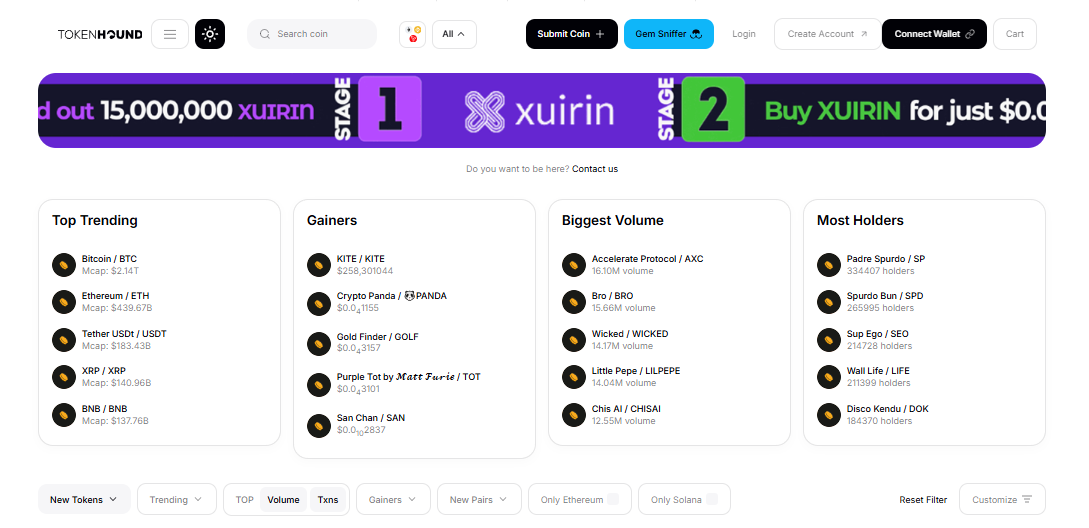
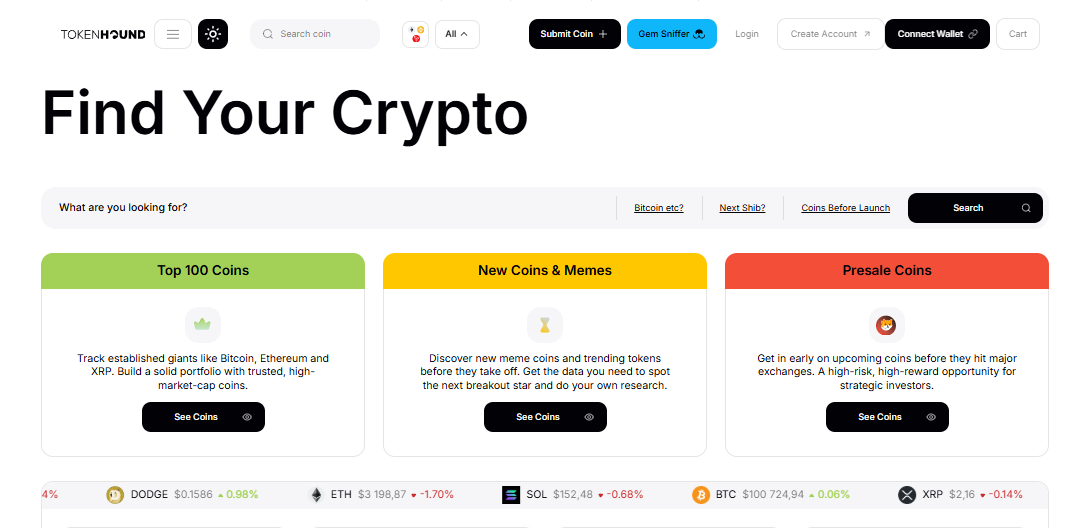
Supplemented description of cases

diff --git a/src/components/Cards/CaseShow.tsx b/src/components/Cards/CaseShow.tsx
@@ -2,8 +2,12 @@ import React, { useState } from 'react';
 import { MdExpandMore } from "react-icons/md";
 import { MdExpandLess } from "react-icons/md";
 
+export type Media =
+  | { type: 'video'; src: string }
+  | { type: 'image'; src: string };
+
 interface CaseShowProps {
-    video: string;
+    media: Media;               // <-- было: video: string
     cover?: string;
     title: string;
     description: string;
@@ -14,7 +18,7 @@ interface CaseShowProps {
 }
 
 const CaseShow: React.FC<CaseShowProps> = ({
-    video,
+    media,
     cover,
     title,
     description,
@@ -23,27 +27,25 @@ const CaseShow: React.FC<CaseShowProps> = ({
     extraClasses = "",
     expandedBgColor = "rgba(27, 33, 45, 1)",
 }) => {
-    const [isVideoLoaded, setIsVideoLoaded] = useState(false);
+    const [isMediaLoaded, setIsMediaLoaded] = useState(false);
     const [hasError, setHasError] = useState(false);
     const [isExpanded, setIsExpanded] = useState(false);
 
-    const handleVideoLoad = () => {
-        setIsVideoLoaded(true);
-    };
-
-    const handleVideoError = () => {
+    const handleMediaLoad = () => setIsMediaLoaded(true);
+    const handleMediaError = () => {
         setHasError(true);
-        setIsVideoLoaded(false);
+        setIsMediaLoaded(false);
     };
 
-    const showPreview = video && !isVideoLoaded && !hasError;
+    const showPreview = media.type === 'video' && !isMediaLoaded && !hasError;
 
     return (
         <article className="flex flex-col gap-3 lg:gap-4">
-            <div className="flex flex-col gap-3 lg:grid lg:grid-cols-2 lg:gap-x-4">
+            {/* <div className="flex flex-col gap-3 lg:grid lg:grid-cols-2 lg:gap-x-4"> */}
+            <div className="flex flex-col gap-3 lg:flex-row lg:gap-4">
                 {/* Блок с демо */}
                 <div
-                    className={`relative ${isEven ? 'lg:order-2' : 'lg:order-1'}`}
+                    className={`relative lg:w-1/2 ${isEven ? 'lg:order-2' : 'lg:order-1'}`}
                 >
                     <div className="h-60 border border-white/20 rounded-3xl sm:h-72 md:h-96 lg:h-[500px] overflow-hidden">
                         <img
@@ -61,13 +63,12 @@ const CaseShow: React.FC<CaseShowProps> = ({
                             filter: 'blur(170px)',
                             willChange: 'transform, opacity',
                         }}
-                    >
-                    </div>
+                    />
                 </div>
 
                 {/* Блок инфо */}
                 <div
-                    className={`grid grid-cols-5 gap-3 lg:flex lg:flex-col ${isEven ? 'lg:order-1' : 'lg:order-2'}`}
+                    className={`grid grid-cols-5 gap-3 lg:lg:w-1/2 lg:flex lg:flex-col lg:h-[500px] ${isEven ? 'lg:order-1' : 'lg:order-2'}`}
                 >
                     <div className={`relative col-span-3 rounded-3xl px-4 py-3 md:px-6 md:py-5 lg:h-1/2 overflow-hidden ${extraClasses}`}>
                         <div className="relative z-10">
@@ -77,49 +78,36 @@ const CaseShow: React.FC<CaseShowProps> = ({
                     </div>
 
                     <div className="relative col-span-2 border border-white/20 rounded-3xl h-36 lg:h-1/2 overflow-hidden">
-                        {showPreview && (
+                        {showPreview && cover && (
                             <img
                                 src={cover}
                                 alt={title}
                                 className="w-full h-full object-cover object-[center_3%]"
+                                onLoad={handleMediaLoad} // чтобы быстро убрать прелоад, если cover подгрузился
                             />
                         )}
 
-                        {video && (
+                        {media.type === 'video' ? (
                             <video
-                                src={video}
+                                src={media.src}
                                 autoPlay
                                 loop
                                 muted
                                 playsInline
-                                className={`w-full h-full object-cover object-[center_5%] ${isVideoLoaded ? 'block' : 'hidden'}`}
+                                className={`w-full h-full object-cover object-[center_5%] ${isMediaLoaded ? 'block' : 'hidden'}`}
                                 aria-label={title}
-                                onLoadedData={handleVideoLoad}
-                                onError={handleVideoError}
+                                onLoadedData={handleMediaLoad}
+                                onError={handleMediaError}
+                            />
+                        ) : (
+                            <img
+                                src={media.src}
+                                alt={title}
+                                className="w-full h-full object-cover object-[center_5%]"
+                                onLoad={handleMediaLoad}
+                                onError={handleMediaError}
                             />
                         )}
-
-                        {/* <div
-                            className={`absolute bottom-2 right-2 ${isEven ? 'lg:right-auto lg:left-2' : ''} flex items-center justify-center p-1 border border-white/40 text-white/60 rounded-full hover:border-white/50 hover:text-white/70 cursor-pointer transition-all duration-300`}
-                            onClick={() => setIsExpanded(!isExpanded)}
-                        >
-                            {isExpanded ? (
-                                <MdExpandLess className="size-6" />
-                            ) : (
-                                <MdExpandMore className="size-6" />
-                            )}
-                        </div> */}
-
-                        {/* <div
-                            className={`absolute bottom-2 right-2 ${isEven ? 'lg:right-auto lg:left-2' : ''} flex items-center justify-center p-1 bg-white text-pink-500 border border-pink-500 rounded-full hover:text-pink-800 hover:border-pink-800 cursor-pointer transition-all duration-300`}
-                            onClick={() => setIsExpanded(!isExpanded)}
-                        >
-                            {isExpanded ? (
-                                <MdExpandLess className="size-6" />
-                            ) : (
-                                <MdExpandMore className="size-6" />
-                            )}
-                        </div> */}
                     </div>
                 </div>
             </div>

diff --git a/src/details/TokenhoundDetails.tsx b/src/details/TokenhoundDetails.tsx
@@ -2,10 +2,11 @@ import React from 'react';
 import { RiReactjsLine } from 'react-icons/ri';
 import { TbBrandTypescript } from 'react-icons/tb';
 import { IoLogoCss3 } from 'react-icons/io';
-import { IoLogoGithub } from 'react-icons/io';
-import { RxFigmaLogo } from 'react-icons/rx';
+import { RiExchange2Fill } from "react-icons/ri";
 import { AiOutlineApi } from 'react-icons/ai';
 import { TbWebhook } from "react-icons/tb";
+import { IoLogoGithub } from 'react-icons/io';
+import { RxFigmaLogo } from 'react-icons/rx';
 
 const TokenhoundDetails = () => {
     return (
@@ -21,7 +22,10 @@ const TokenhoundDetails = () => {
                             <h5 className="mb-2 font-medium text-sm md:text-lg">Основные задачи:</h5>
                             <ul className="pl-4 list-disc flex flex-col gap-1 leading-5.5 text-xs sm:pl-3 md:text-base">
                                 <li>Реализация интерфейса по готовому дизайн-макету</li>
-                                <li>Интеграция с бэкендом через API</li>
+                                <li>Функционал смены темы оформления (dark / light)</li>
+                                <li>Клиент-серверное взаимодействие через REST API</li>
+                                <li>Динамическое отображение данных</li>
+                                <li>Совместная работа стандартной авторизации и авторизации криптокошелька</li>
                             </ul>
                         </div>
 
@@ -32,8 +36,9 @@ const TokenhoundDetails = () => {
                                     { icon: <RiReactjsLine />, text: 'Библиотека: React' },
                                     { icon: <TbBrandTypescript />, text: 'Язык программирования: TypeScript' },
                                     { icon: <IoLogoCss3 />, text: 'Стили: SCSS-модули' },
-                                    { icon: <AiOutlineApi />, text: 'Работа с данными: Fetch API' },
-                                    { icon: <TbWebhook />, text: 'Работа с состоянием: React Hooks' },
+                                    { icon: <AiOutlineApi />, text: 'Обмен данными: Axios' },
+                                    { icon: <RiExchange2Fill />, text: 'Глобальное состояние: MobX' },
+                                    { icon: <TbWebhook />, text: 'Состояние компонентов: React Hooks' },
                                     { icon: <IoLogoGithub />, text: 'Совместная разработка: GitHub' },
                                     { icon: <RxFigmaLogo />, text: 'Работа с дизайн-макетом: Figma' },
                                 ].map(({ icon, text }, index) => (
@@ -50,6 +55,42 @@ const TokenhoundDetails = () => {
                                     </li>
                                 ))}
                             </ul>
+                        </div>
+                    </div>
+
+                    <div className="hidden sm:block flex-shrink-0 h-80 md:h-64 lg:h-80 xl:h-96">
+                        <img
+                            alt="mockup"
+                            src="/nata.dev/images/cases/tokenhound_mob.png"
+                            className="relative h-full object-cover"
+                        />
+                    </div>
+                </div>
+
+                <div className="flex gap-2 sm:block lg:h-80 xl:h-96">
+                    <div className="sm:hidden w-1/2 flex-shrink-0">
+                        <img
+                            alt="mockup"
+                            src="/nata.dev/images/cases/tokenhound_mob.png"
+                            className="relative w-full object-cover"
+                        />
+                    </div>
+
+                    <div className="flex flex-col justify-between gap-2 sm:flex-row lg:flex-col lg:h-full">
+                        <div className="order-1 rounded-3xl h-full sm:h-48 sm:w-full md:h-52 lg:h-1/2 lg:w-40 lg:order-2 xl:w-60 overflow-hidden">
+                            <img
+                                alt=""
+                                src="/nata.dev/images/cases/tokenhound_ex2.png"
+                                className="relative w-full h-full object-cover"
+                            />
+                        </div>
+
+                        <div className="order-2 rounded-3xl h-full sm:h-48 sm:w-full md:h-52 lg:h-1/2 lg:w-40 lg:order-1 xl:w-60 overflow-hidden">
+                            <img
+                                alt=""
+                                src="/nata.dev/images/cases/tokenhound_ex1.png"
+                                className="relative w-full h-full object-cover"
+                            />
                         </div>
                     </div>
                 </div>

diff --git a/src/sections/CasesShow.tsx b/src/sections/CasesShow.tsx
@@ -7,6 +7,17 @@ import { AcademyDetails } from '../details';
 import { TokenhoundDetails } from '../details';
 import { ChicscoinDetails } from '../details';
 import { QuickmarkDetails } from '../details';
+import type { Media } from '../components/Cards/CaseShow';
+
+type ProjectItem = {
+    media: Media;
+    cover?: string;
+    title: string;
+    description: string;
+    expandedContent?: React.ReactNode;
+    extraClasses?: string;
+    expandedBgColor?: string;
+  };
 
 const CasesShow: React.FC = () => {
     const location = useLocation();
@@ -44,9 +55,10 @@ const CasesShow: React.FC = () => {
         };
     }, [location]);
 
-    const projects = [
+    const projects: ProjectItem[] = [
         {
-            video: '/nata.dev/video/shmoneloops.MP4',
+            // video: '/nata.dev/video/shmoneloops.MP4',
+            media: { type: 'video', src: '/nata.dev/video/shmoneloops.MP4' },
             cover: '/nata.dev/images/cover/shmoneloops.png',
             title: 'ShmoneLoops',
             description: 'Современный интерактивный лендинг с анимациями и возможностью записи в лист ожидания',
@@ -54,7 +66,8 @@ const CasesShow: React.FC = () => {
             extraClasses: "bg-gradient-to-r from-[#141620] to-[#415674]",
         },
         {
-            video: '/nata.dev/video/academy.MP4',
+            // video: '/nata.dev/video/academy.MP4',
+            media: { type: 'video', src: '/nata.dev/video/academy.MP4' },
             cover: '/nata.dev/images/cover/academy.png',
             title: 'Beauty Academy',
             description: 'Многостраничный сайт для продажи курсов и обучений в сфере бьюти-индустрии',
@@ -63,31 +76,34 @@ const CasesShow: React.FC = () => {
             extraClasses: "text-black bg-gradient-to-r from-[#D1A98C] to-[#EBC8A7]",
         },
         {
-            video: '/nata.dev/video/tokenhound.MP4',
+            // video: '/nata.dev/video/tokenhound.MP4',
+            media: { type: 'image', src: '/nata.dev/images/cover/tokenhound_ex.png' },
             cover: '/nata.dev/images/cover/tokenhound.png',
-            title: 'Tokenhound',
+            title: 'TokenHound',
             description: 'DEX-платформа для торговли криптоактивами',
             expandedContent: <TokenhoundDetails />,
             expandedBgColor: "rgba(27, 27, 31, 1)",
             extraClasses: "text-white bg-gradient-to-r from-[#1B1B1F] to-[#27272A]",
         },
         {
-            video: '/nata.dev/video/chicscoin.MP4',
+            // video: '/nata.dev/video/quickmark.MP4',
+            media: { type: 'video', src: '/nata.dev/video/quickmark.MP4' },
+            cover: '/nata.dev/images/cover/quickmark.png',
+            title: 'Quickmark',
+            description: 'Сервис маркировки товаров с лендингом и функциональной админ-панелью',
+            expandedContent: <QuickmarkDetails />,
+            expandedBgColor: "rgba(255, 226, 168, 1)",
+            extraClasses: "text-black bg-gradient-to-r from-[#fe985d] to-[#ffea94]",
+        },
+        {
+            // video: '/nata.dev/video/chicscoin.MP4',
+            media: { type: 'video', src: '/nata.dev/video/chicscoin.MP4' },
             cover: '/nata.dev/images/cover/chicscoin.png',
             title: 'Chicscoin',
             description: 'Мультиязычный лендинг с самостоятельно разработанным дизайном и базовой анимацией',
             expandedContent: <ChicscoinDetails />,
             expandedBgColor: "rgba(38, 38, 38, 0.8)",
             extraClasses: "bg-gradient-to-r from-[#AF0092] to-teal-900",
-        },
-        {
-            video: '/nata.dev/video/quickmark.MP4',
-            cover: '/nata.dev/images/cover/quickmark.png',
-            title: 'Quickmark',
-            description: 'Сервис маркировки товаров с лендингом и функциональной админ-панелью',
-            expandedContent: <QuickmarkDetails />,
-            expandedBgColor: "rgba(255, 210, 132, 1)",
-            extraClasses: "text-black bg-gradient-to-r from-[#fe985d] to-[#ffea94]",
         },
     ];
 
@@ -102,7 +118,8 @@ const CasesShow: React.FC = () => {
                                 <CaseShow
                                     isEven={index % 2 === 1}
                                     // key={index}
-                                    video={project.video}
+                                    // video={project.video}
+                                    media={project.media}
                                     cover={project.cover}
                                     title={project.title}
                                     description={project.description}

diff --git a/src/details/ShmoneDetails.tsx b/src/details/ShmoneDetails.tsx
@@ -24,7 +24,7 @@ const ShmoneDetails = () => {
                             <ul className="pl-4 list-disc flex flex-col gap-1 leading-5.5 text-xs sm:pl-3 md:text-base">
                                 <li>Реализация интерфейса по готовому дизайн-макету</li>
                                 <li>Создание CSS-анимаций</li>
-                                <li>Интеграция с бэкендом через API для отправки данных</li>
+                                <li>Клиент-серверное взаимодействие через REST API</li>
                             </ul>
                         </div>
 
@@ -35,8 +35,8 @@ const ShmoneDetails = () => {
                                     { icon: <RiReactjsLine />, text: 'Библиотека: React' },
                                     { icon: <TbBrandTypescript />, text: 'Язык программирования: TypeScript' },
                                     { icon: <IoLogoCss3 />, text: 'Стили: CSS-модули' },
-                                    { icon: <AiOutlineApi />, text: 'Работа с данными: Fetch API' },
-                                    { icon: <TbWebhook />, text: 'Работа с состоянием: React Hooks' },
+                                    { icon: <AiOutlineApi />, text: 'Обмен данными: Fetch API' },
+                                    { icon: <TbWebhook />, text: 'Состояние компонентов: React Hooks' },
                                     { icon: <MdOutlineAnimation />, text: 'Анимации: CSS-анимации' },
                                     { icon: <IoLogoGithub />, text: 'Совместная разработка: GitHub' },
                                     { icon: <RxFigmaLogo />, text: 'Работа с дизайн-макетом: Figma' },

diff --git a/src/details/ChicscoinDetails.tsx b/src/details/ChicscoinDetails.tsx
@@ -2,9 +2,9 @@ import React from 'react';
 import { RiReactjsLine } from 'react-icons/ri';
 import { TbBrandTypescript } from 'react-icons/tb';
 import { RiTailwindCssFill } from "react-icons/ri";
-import { IoLogoGithub } from 'react-icons/io';
 import { TbWebhook } from "react-icons/tb";
 import { SiI18Next } from "react-icons/si";
+import { IoLogoGithub } from 'react-icons/io';
 
 const ChicscoinDetails = () => {
     return (
@@ -32,7 +32,7 @@ const ChicscoinDetails = () => {
                                     { icon: <RiReactjsLine />, text: 'Библиотека: React' },
                                     { icon: <TbBrandTypescript />, text: 'Язык программирования: TypeScript' },
                                     { icon: <RiTailwindCssFill />, text: 'Стили: Tailwind CSS' },
-                                    { icon: <TbWebhook />, text: 'Работа с состоянием: React Hooks' },
+                                    { icon: <TbWebhook />, text: 'Состояние компонентов: React Hooks' },
                                     { icon: <SiI18Next />, text: 'Интернационализация: i18next' },
                                     { icon: <IoLogoGithub />, text: 'Совместная разработка: GitHub' },
                                 ].map(({ icon, text }, index) => (
